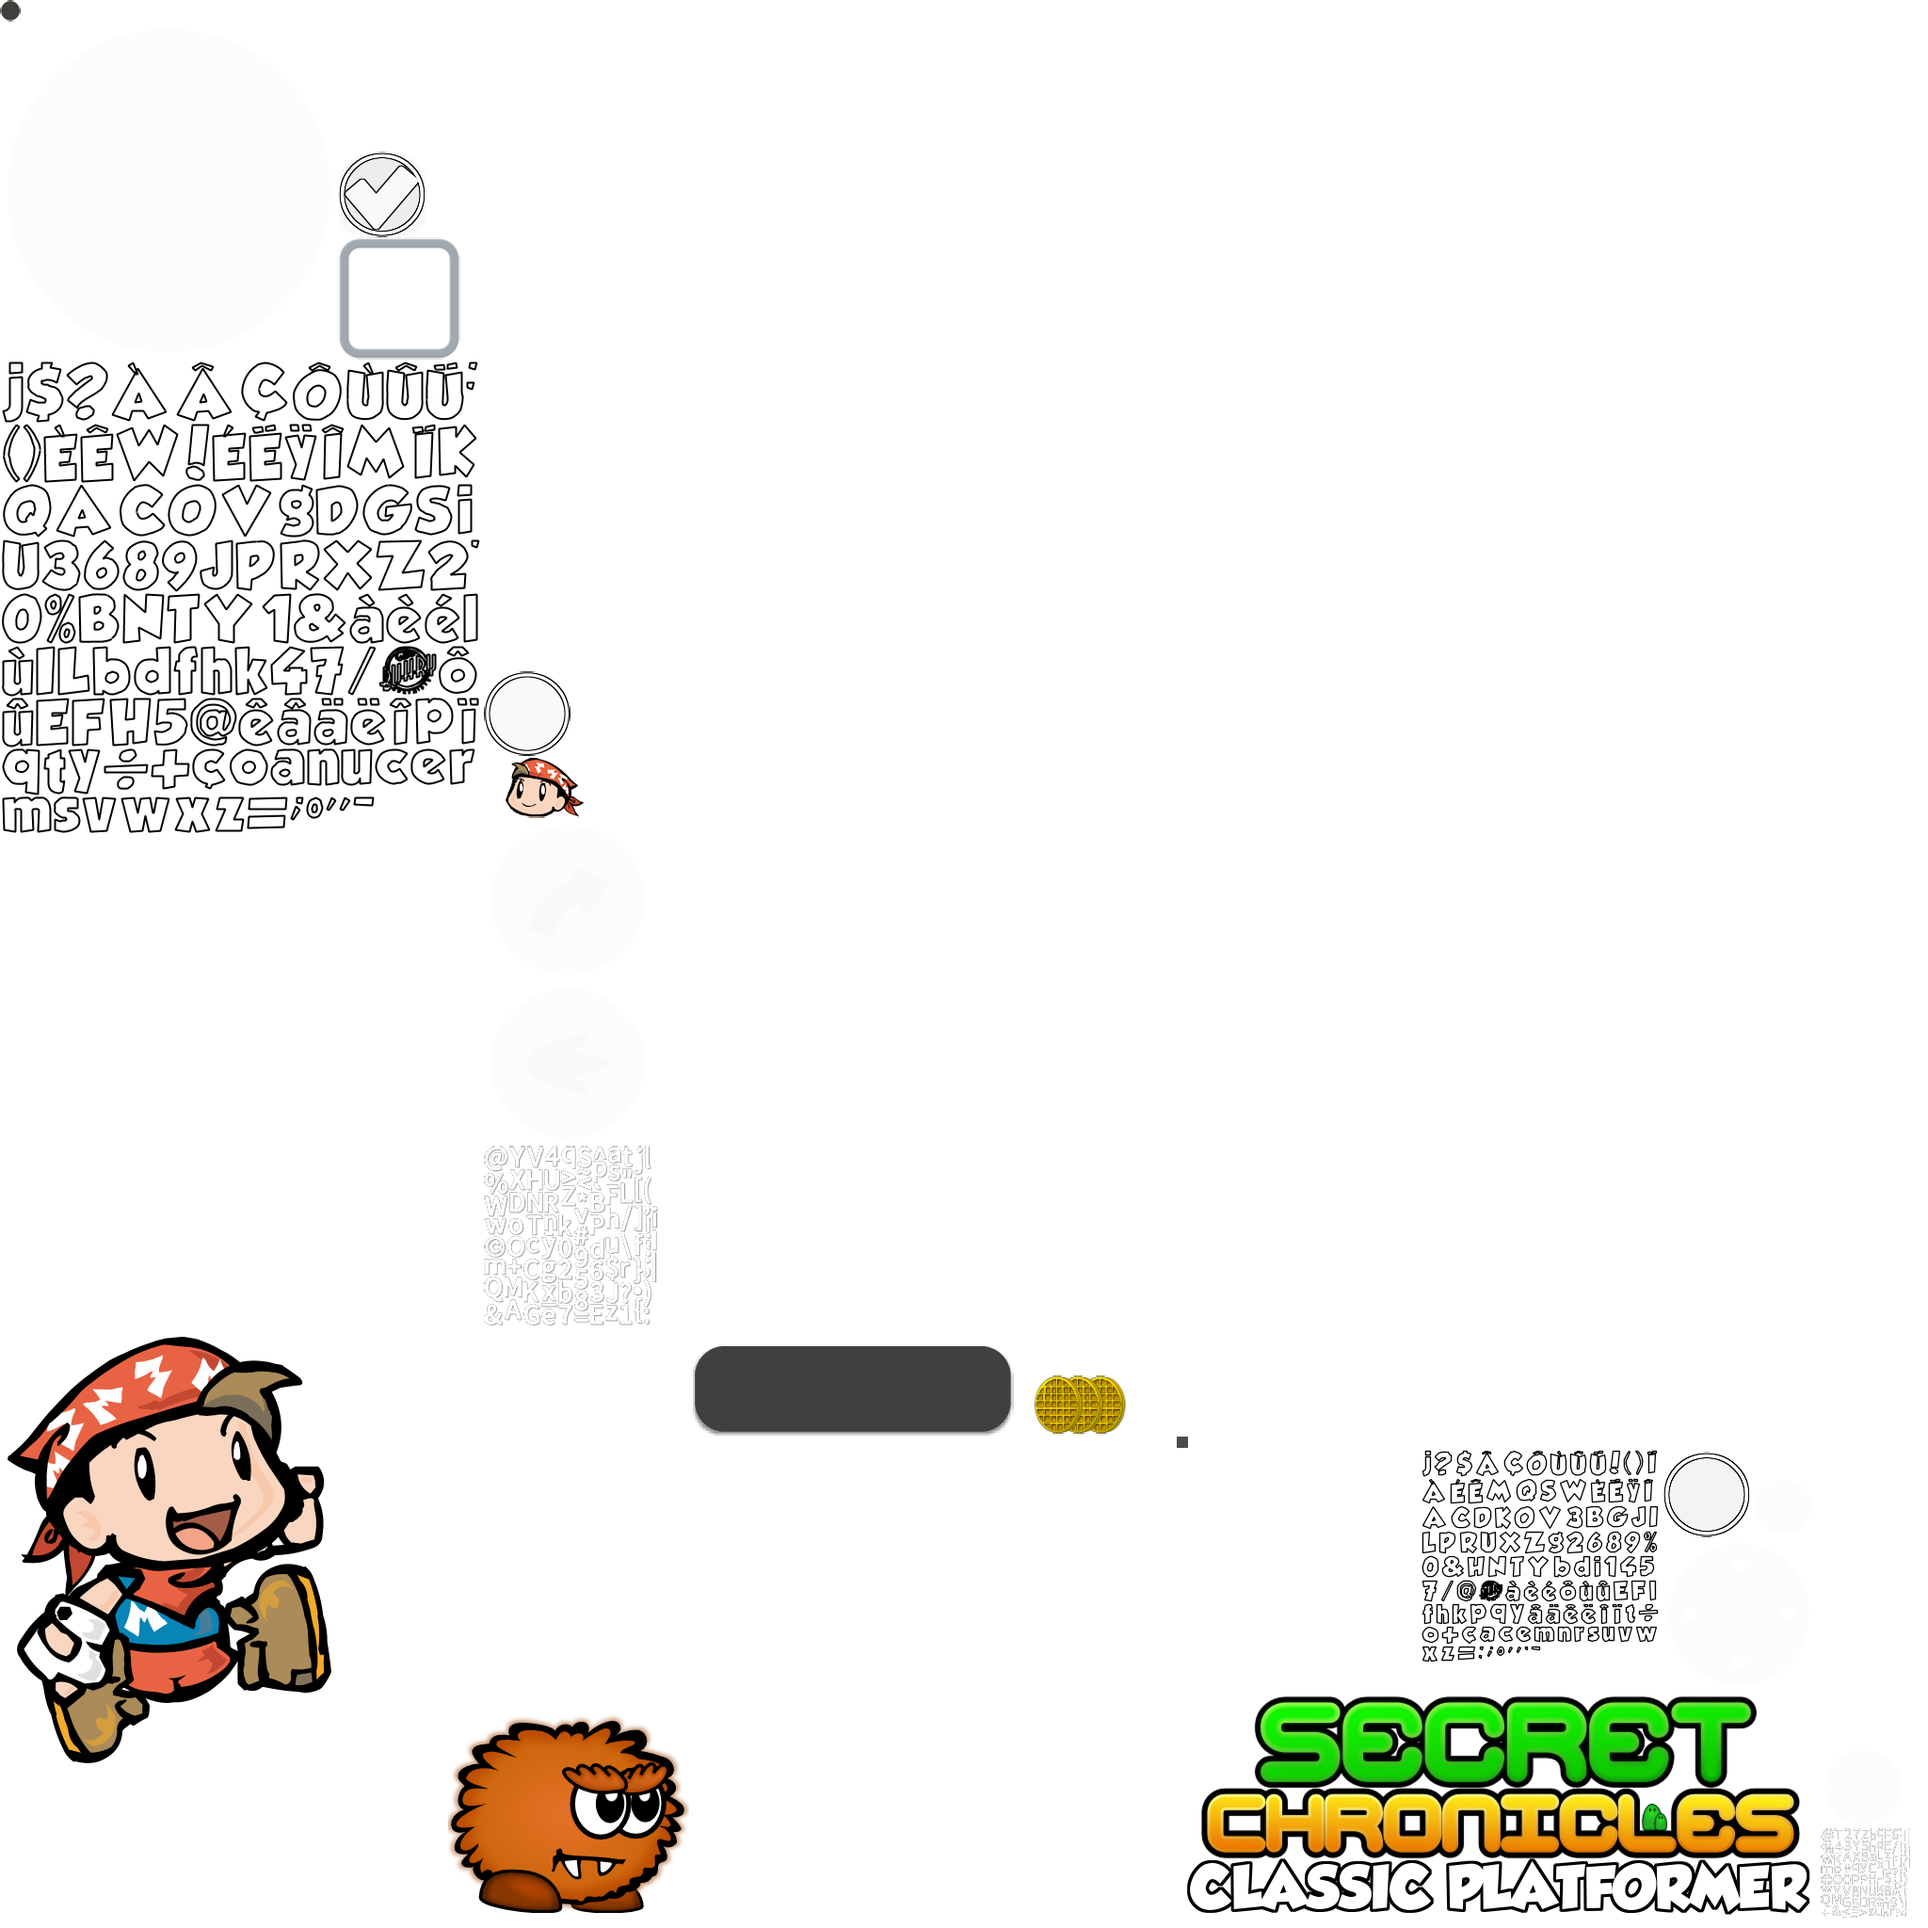
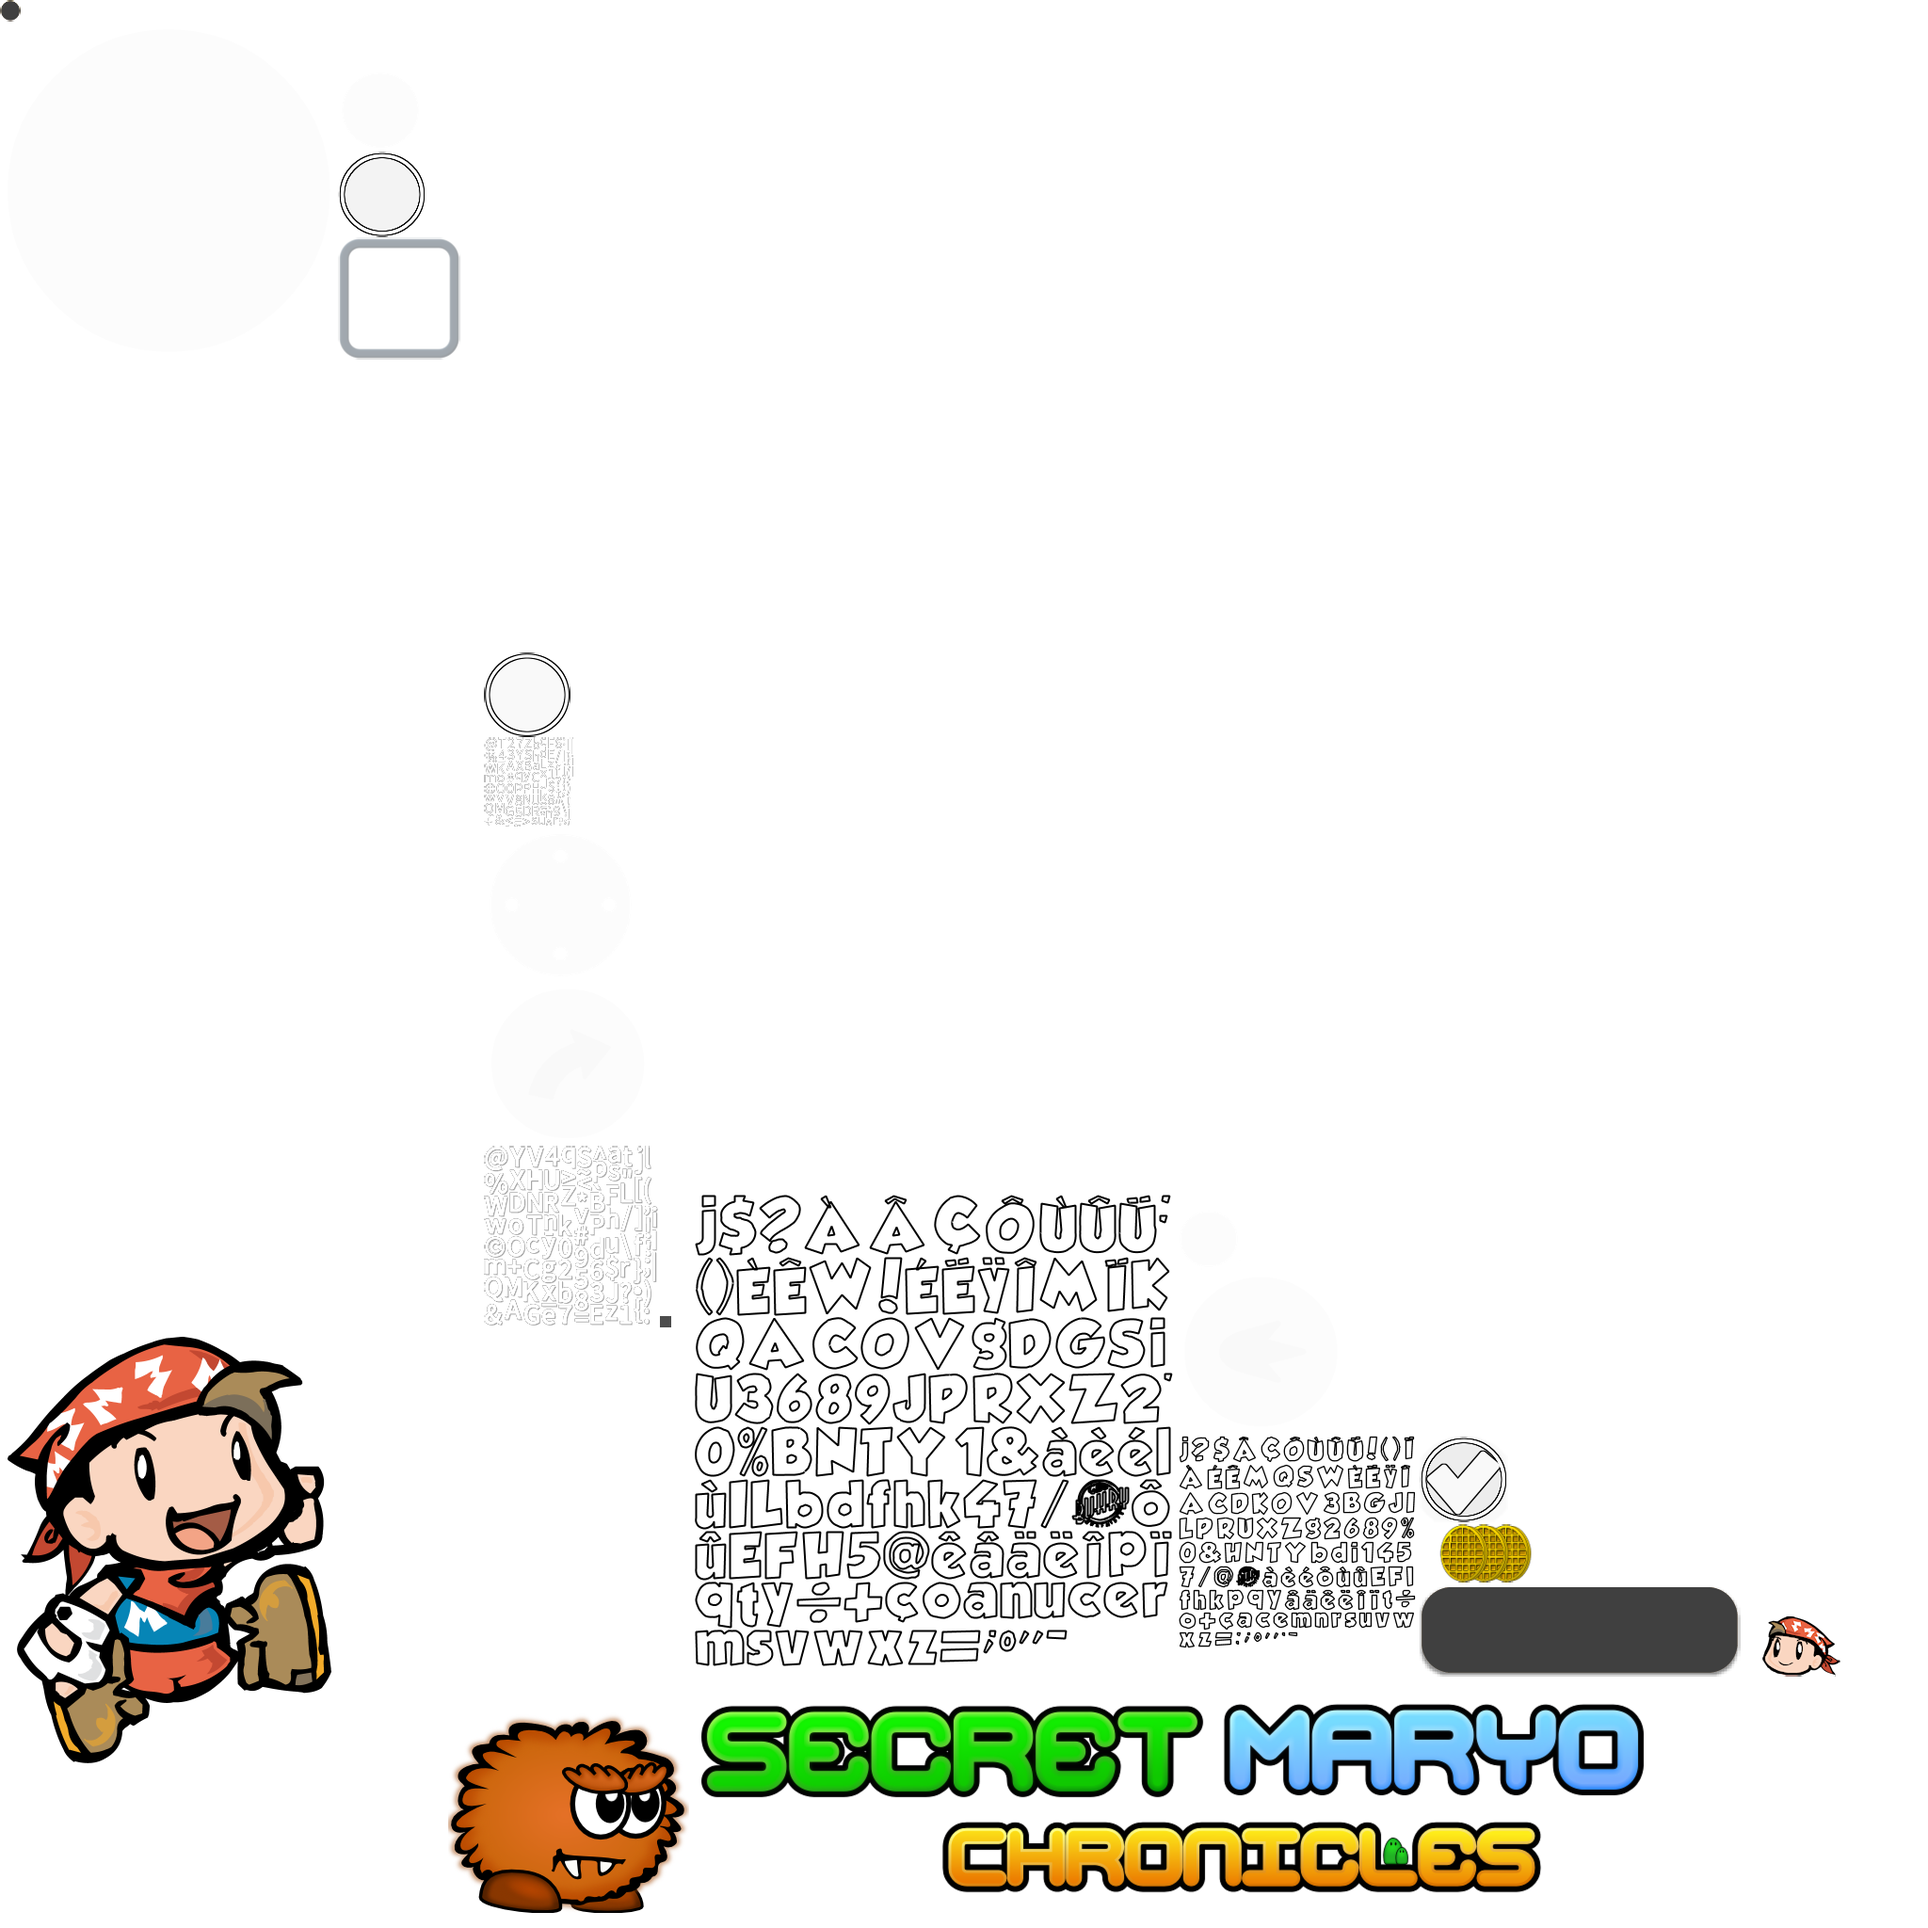
reverting fixed hud

Changed region(s): [[0.3438, 0.625, 1.0, 1.0], [0.0, 0.1875, 0.3125, 0.4375]]

diff --git a/core/src/rs/pedjaapps/smc/screen/MainMenuScreen.java b/core/src/rs/pedjaapps/smc/screen/MainMenuScreen.java
@@ -36,6 +36,7 @@ import rs.pedjaapps.smc.assets.FontAwesome;
 import rs.pedjaapps.smc.assets.TextureKey;
 import rs.pedjaapps.smc.audio.MusicManager;
 import rs.pedjaapps.smc.object.GameObject;
+import rs.pedjaapps.smc.object.maryo.Maryo;
 import rs.pedjaapps.smc.utility.Constants;
 import rs.pedjaapps.smc.utility.GameSave;
 import rs.pedjaapps.smc.utility.LevelLoader;
@@ -100,7 +101,7 @@ public class MainMenuScreen extends AbstractScreen {
 
     public static Image createLogoImage() {
         Image imGameLogo = new Image(MaryoGame.game.assets.get(Assets.SKIN_HUD, Skin.class), Assets.LOGO_GAME);
-        imGameLogo.setSize(imGameLogo.getWidth() * .9f, imGameLogo.getHeight() * .9f);
+        imGameLogo.setSize(imGameLogo.getWidth() * .8f, imGameLogo.getHeight() * .8f);
         return imGameLogo;
     }
 
@@ -134,6 +135,8 @@ public class MainMenuScreen extends AbstractScreen {
         cloudsPEffect.draw(batch, delta);
 
         drawObjects(delta);
+
+        maryo.draw(batch, 1);
 
         batch.end();
 
@@ -240,9 +243,8 @@ public class MainMenuScreen extends AbstractScreen {
 
         maryo = new Image(dynAtlas.findRegion("maryo_" + GameSave.getPersistentMaryoState().toString()
                 + "_" + TextureKey.stand_right.toString()));
-        maryo.setSize(maryo.getPrefWidth() * .55f, maryo.getPrefHeight() * .55f);
-        maryo.setPosition(100, 378);
-        stage.addActor(maryo);
+        maryo.setSize(Maryo.DEFAULT_SIZE, Maryo.DEFAULT_SIZE);
+        maryo.setPosition(1.8f, 4.609375f);
 
         // für FireTV: falls direkt bei Start schon Controller da, dann gleich in Konfig springen
         if (Gdx.app.getType() == Application.ApplicationType.Android &&
@@ -250,8 +252,9 @@ public class MainMenuScreen extends AbstractScreen {
                 && !Gdx.input.isPeripheralAvailable(Input.Peripheral.HardwareKeyboard)
                 && !firstStartDone
                 && Controllers.getControllers().size >= 1
-                && !MaryoGame.game.controllerMappings.loadedSavedSettings)
+                && !MaryoGame.game.controllerMappings.loadedSavedSettings) {
             new GamepadMappingDialog(skin, Controllers.getControllers().get(0), MaryoGame.game.controllerMappings).show(stage);
+        }
 
         firstStartDone = true;
     }
@@ -309,7 +312,7 @@ public class MainMenuScreen extends AbstractScreen {
         imGameLogo.setPosition(startMenu.getWidth() / 2, (startMenu.getHeight() + playButton.getY() + playButton
                 .getHeight()) /
                 2, Align.center);
-        startMenu.addActor(imGameLogo);
+        //startMenu.addActor(imGameLogo);
 
         Label gameVersion = new Label("v" + MaryoGame.GAME_VERSION + " by Benjamin Schulte", skin, Assets
                 .LABEL_BORDER25);

diff --git a/core/src/rs/pedjaapps/smc/utility/Constants.java b/core/src/rs/pedjaapps/smc/utility/Constants.java
@@ -1,6 +1,6 @@
 package rs.pedjaapps.smc.utility;
 
-import rs.pedjaapps.smc.MaryoGame;
+import com.badlogic.gdx.Gdx;
 
 /**
  * Created by pedja on 2/15/14.
@@ -12,8 +12,6 @@ public class Constants {
     public static final float MENU_CAMERA_HEIGHT = 7f;
     public static final float CAMERA_HEIGHT = 9f;
 
-    public static float ASPECT_RATIO;
-
     public static final float MENU_DRAW_WIDTH = 12.444444444f;
     public static final float DRAW_WIDTH = 16f;
 
@@ -24,8 +22,8 @@ public class Constants {
     }
 
     public static void initCamera() {
-        ASPECT_RATIO = (float) MaryoGame.NATIVE_WIDTH / (float) MaryoGame.NATIVE_HEIGHT;
-        CAMERA_WIDTH = CAMERA_HEIGHT * ASPECT_RATIO;
-        MENU_CAMERA_WIDTH = MENU_CAMERA_HEIGHT * ASPECT_RATIO;
+        float aspectRatio = (float) Gdx.graphics.getWidth() / (float) Gdx.graphics.getHeight();
+        CAMERA_WIDTH = CAMERA_HEIGHT * aspectRatio;
+        MENU_CAMERA_WIDTH = MENU_CAMERA_HEIGHT * aspectRatio;
     }
 }

diff --git a/core/src/rs/pedjaapps/smc/MaryoGame.java b/core/src/rs/pedjaapps/smc/MaryoGame.java
@@ -34,8 +34,8 @@ import rs.pedjaapps.smc.utility.MyControllerMapping;
 import rs.pedjaapps.smc.utility.PrefsManager;
 
 public class MaryoGame extends Game implements IGameServiceListener {
-    public static final int NATIVE_WIDTH = 1024;
-    public static final int NATIVE_HEIGHT = 576;
+    public static int NATIVE_WIDTH;
+    public static int NATIVE_HEIGHT;
 
     public static final String GAME_VERSION = "2.0.0";
     public static final boolean GAME_DEVMODE = true;
@@ -120,6 +120,8 @@ public class MaryoGame extends Game implements IGameServiceListener {
 
     @Override
     public void create() {
+        NATIVE_WIDTH = Gdx.graphics.getWidth();
+        NATIVE_HEIGHT = Gdx.graphics.getHeight();
         game = this;
         if (!GAME_DEVMODE)
             Gdx.app.setLogLevel(Application.LOG_ERROR);

diff --git a/desktop/src/rs/pedjaapps/smc/desktop/DesktopLauncher.java b/desktop/src/rs/pedjaapps/smc/desktop/DesktopLauncher.java
@@ -14,8 +14,8 @@ public class DesktopLauncher {
     public static void main(String[] arg) {
         //BasicConfigurator.configure();
         LwjglApplicationConfiguration config = new LwjglApplicationConfiguration();
-        config.width = MaryoGame.NATIVE_WIDTH;
-        config.height = MaryoGame.NATIVE_HEIGHT;
+        config.width = 1024;
+        config.height = 472;//576//472
         //config.resizable = false;
         //config.allowSoftwareMode = false;
         config.vSyncEnabled = false;

diff --git a/core/src/rs/pedjaapps/smc/utility/LevelLoader.java b/core/src/rs/pedjaapps/smc/utility/LevelLoader.java
@@ -212,7 +212,7 @@ public class LevelLoader {
 
     private void parsePlayer(JsonValue jPlayer, World world) {
         if (levelParsed) return;
-        Maryo maryo = new Maryo(jPlayer.getFloat("posx"), jPlayer.getFloat("posy"), Maryo.POSITION_Z, 0.9f, 0.9f);
+        Maryo maryo = new Maryo(jPlayer.getFloat("posx"), jPlayer.getFloat("posy"), Maryo.POSITION_Z, Maryo.DEFAULT_SIZE, Maryo.DEFAULT_SIZE);
         world.maryo = maryo;
         level.gameObjects.add(maryo);
     }

diff --git a/core/src/rs/pedjaapps/smc/screen/AbstractScreen.java b/core/src/rs/pedjaapps/smc/screen/AbstractScreen.java
@@ -14,7 +14,7 @@ public abstract class AbstractScreen implements Screen {
     protected MenuStage stage;
     public World world;
 
-    public AbstractScreen() {
+    AbstractScreen() {
         stage = new MenuStage(new FitViewport(MaryoGame.NATIVE_WIDTH, MaryoGame.NATIVE_HEIGHT));
         world = new World();
     }

diff --git a/core/src/rs/pedjaapps/smc/object/maryo/Maryo.java b/core/src/rs/pedjaapps/smc/object/maryo/Maryo.java
@@ -46,6 +46,8 @@ import static rs.pedjaapps.smc.object.Sprite.GROUND_ICE;
 
 public class Maryo extends DynamicObject {
 
+    public static final float DEFAULT_SIZE = 0.9f;
+
     private enum Keys {
         LEFT, RIGHT, UP, DOWN, JUMP, FIRE
     }
